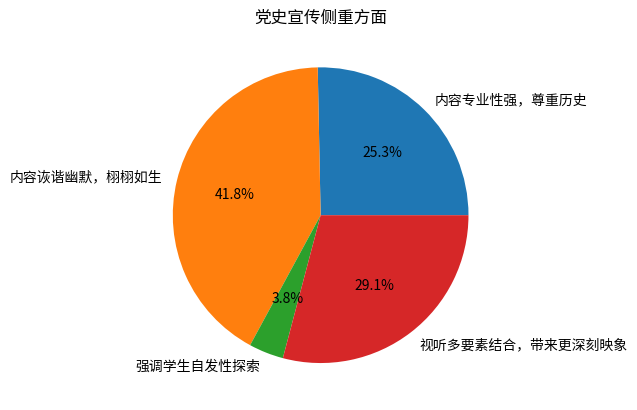
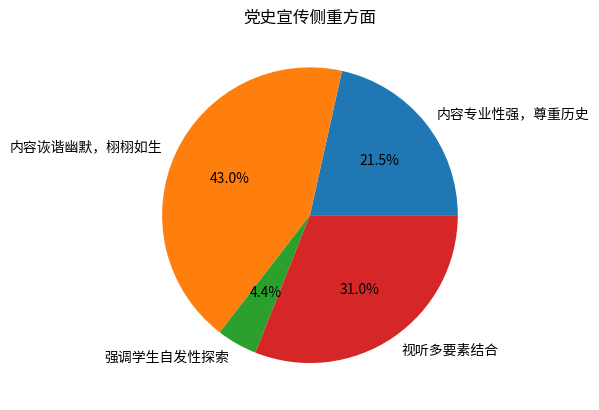
add cyf work

diff --git a/README.md b/README.md
@@ -12,11 +12,83 @@
 
 ## 二、背景调研
 
-### 2.1 当代大学生对基础党史知识的掌握情况
+### 2.1 调查方式
 
-### 2.2 当代大学生对党史的学习兴趣
+为了更好地对当代大学生的党史知识掌握情况进行调查，考虑到评估自身的掌握情况会因为包括主观认知等诸多原因导致信息失真，我们采用了客观题测试和普通调查问卷两种方式相结合的调研方法，在实践中取得了很好的效果。
 
-### 2.3 当代大学生对党史宣传不同途径的态度
+#### 2.1.1 客观题测试设计
+
+为保证客观题的权威性和表述的严谨性，我们认为仅靠自己命题是不合适的；与之相对的，我们选择了以包括历年各地区高考真题、考研真题中党史相关的题目为基础，构建了一个包含235道选择题的题库；每次测试时，我们设计的程序会自动从中随机抽取13道完全不同的测试用题目和3道检查用题目组成16道选择题，在随机排序并随机打乱选项顺序后显示在网页上来进行测试，以此来确保测试用的题目是权威且可靠的。
+
+在题库的建设中，我们发现存在不少题目是高度相似的，因此我们在题库内引入了“相似题目”的概念：当题A和题B均和题C为相似题目，或者我们讨论后认为这两道题目是相似的，那么这两道题目就是“相似题目”；这样的题目出现在同一个问卷中，可能会导致熟悉这部分党史的受试者得到相对于其真实了解情况较高的分数，以及不了解这部分党史的受试者得到相对于其真实了解情况较低的分数，因此在生成问卷时，程序会自动实现13道随机抽取的测试用题目互相不是“相似题目”。借助于我们所处的计算机专业所学得的相关知识，我们可以让生成测试题目的程序以高效率运行的同时，回避两两检查所有题目是否相似这一过于繁重的任务，而只需要检查有限组题目是否相似。此外，考虑到题目难度不尽相同，我们在题库中同时对题目进行了简单的分类，分为偏基础的题目和较为深入的题目，并按照8道偏基础的题目配合5道偏深入的题目来准备13道测试用题目。
+
+为了更进一步体现真实结果，避免受试者通过其他渠道得到问题的答案，我们在后台记录了受试者的是否离开当前页面以及离开的时长：在通常情况下，受试者应当一直在同一个网页完成测试才会离开，因此长期或频繁离开测试页面是不合理的，通常受试者是在尝试通过搜索引擎得到答案。在实践中，我们设置的要求是离开页面小于等于4次，且在看到超过5道题的内容后，离开页面的总时长不超过3分钟，且完成测试的总时长不超过16分钟，测试的结果才会被视为有效。在测试结束后，受试者并不会知道测试用题目的答案，以及他的结果是否被纳入统计中，我们认为这样可以在最大限度保障后续测试真实性的同时，避免测试本身有过强的说教意味和历史考试氛围。
+
+此外，考虑到可能存在随意乱选，只是把所有题目都填上一个选项而不看题目的受试者，我们额外加入了3道检查用题目。3道检查用题目分别和之前的13道测试用题目中的3道为“相似题目”，且重新调整了选项的顺序。若受试者为认真完成，则检查用题目的答案应当和对应的测试用题目答案一致但选项不同，且即使发生错误也应当是相同的错误，反之则说明受试者有可能并没有认真完成。在实践中，考虑到可能存在手误等若干意外因素，我们控制检查用题目一定是和偏基础的题目为“相似题目”，并设置不匹配上限为2，即超过2道（含2道）检查用题目和之前的测试用题目不匹配的测试数据会被判定为无效，进而被舍弃。为抑制测试的说教意味，因为这个原因导致测试数据被舍弃同样不会告知受试者本人。
+
+在之后的分析中，我们只考虑了测试用题目回答的准确性，并没有考虑检查用题目的回答情况，因为后者与前者存在重复。通过以上种种设计，我们得到了较为准确客观的当代大学生对党史的掌握情况。
+
+按照上述方法，我们设计并搭建了符合我们需求的网站，答题界面如下图所示：
+
+![quiz_website](img/quiz1.png)
+![quiz_website](img/quiz2.png)
+
+#### 2.1.2 调查问卷设计
+
+考虑到党史宣传的效果的评估还包括了受宣传者的主观感受，完全依靠客观题的评估是不合适的，因此我们依然保留了传统调查问卷的调查方法。在设计时，为了令调查问卷兼具简洁和深入，我们参考、学习了大量已有的调查问卷的设计，并在此基础上结合自身生活实践设计了自己的调查问卷。在实践中调查问卷被附在客观题测试的后面，在完成客观题之后再在网页上显示。借助于之前客观题测试的结果，我们得以快速找出不可靠的调查问卷结果，从而避免污染数据，维护调查问卷结果的可靠性。由于大部分客观的内容已经被之前的客观题测试完成，因此调查问卷集中于接受党史宣传的方式、宣传的感受以及对未来的期望，以此来从另一个角度评估党史宣传的结果。
+
+### 2.2 调查结果
+
+#### 2.2.1 当代大学生对基础党史知识的掌握情况
+
+我们合计收到了159份有效的客观题测试结果，其中包括67份来自文科学生的测试结果以及92份来自理工科学生的测试结果，整体数据如下图所示：
+
+![test_result_overall](img/data/quiz_overall.png)
+
+可以发现，文科学生的成绩略优于理工科学生，但总体而言则显得良莠不齐，并不能说是很好——这与我们预想的结果不符。进一步深入研究，对于不同难度的题目分别进行统计，发现：
+
+对于偏基础的题目：
+
+![test_result_easy](img/data/quiz_easy.png)
+
+尽管文科学生略优于理工科学生，但二者总体水平都非常好。进一步研究题库中偏基础的题目，发现这部分党史内容集中于教科书上有硬性规定、要考试的部分，绝大多数学生对这一部分内容的掌握都非常优秀，甚至超出了我们的预期，这是值得肯定的。
+
+而对于偏深入的内容：
+
+![test_result_hard](img/data/quiz_hard.png)
+
+文科学生依然略优于理工科学生，但二者结果都不容乐观。这一部分对应的党史内容往往不是考试的硬性要求，更多的依靠学生自发地进行学习，而学习的效果不容乐观。而在本次调查之外的组内同学个人调查中，我们发现，因为考点的变化，导致对同样的党史内容，不同年级学生的掌握水平出现了巨大的差异。
+
+对教科书内容及有硬性要求的党史掌握的很好，但拘泥于教科书内容，缺少对党史学习的兴趣，缺乏主动深入学习党史，这是我们通过客观题测试得出的当代大学生对于党史学习的现状。
+
+#### 2.2.2 当代大学生对党史宣传不同途径的态度
+
+基于一些前期工作，我们认为大学生学习党史的途径主要包括线上线下教学、影视作品、党史主题活动、参观革命纪念地、通过视频及短视频学习这些方面。随后的调查问卷证实了我们的先期工作，并且通过对调查问卷的整理，我们得到了更为详细的数据。
+
+##### 2.2.2.1 线上线下教学的宣传效果
+
+![education](img/data/reasons1.png)
+大部分学生都对通过线上线下教学的党史学习持积极态度，但也有相当一部分同学不认为这种方式非常好。由饼状图不难看出，无论是持积极态度还是持消极态度，其主要原因都是专业性较强，对党史有详细、严谨、完善的表述，这和我们预想的相符。我们认为通过线上线下教学来进行的党史宣传是重要且有效的，但教学时间有限，更多要依靠课堂之外的时间来进行自学。
+
+##### 2.2.2.2 影视作品的宣传效果
+
+![movie](img/data/reasons2.png)
+大部分大学生都认为影视作品的宣传效果很好，并且喜欢的理由主要是因为影视作品的表现形式。应当指出，依然有部分大学生认为的影视作品中人物形象过于“高大全”“伟光正”，并不够接地气；不合适的影视作品可能会导致反效果。
+
+##### 2.2.2.3 党史主题活动的宣传效果
+
+![event](img/data/reasons3.png)
+不少大学生都对这种宣传方式持负面看法，认为这在耗费时间的同时缺乏效果和实际意义，这一方面反映出对党史学习兴趣的缺乏是普遍存在的，另一方面也反映出不少党史主题活动其党史宣传其实并不到位，宣传工作很难说做的很好。
+
+##### 2.2.2.4 革命纪念地的宣传效果
+
+![library](img/data/reasons4.png)
+这一部分大部分大学生依然持负面观点，但值得注意的是，大部分曾参观过的革命纪念地、革命博物馆的大学生都认为这是一种非常好的党史宣传方式，且其持正面评价的原因多集中于能够更深入的了解党史本身而非其他目的，而持负面评价的大学生多为听到名字就避而远之或缺乏行动动机，这引起了我们作进一步调查的兴趣。在综合诸因素考量后，我们选择考察中共代表团梅园新村纪念馆这一重要爱国主义教育基地，以亲身体验的方式来进一步研究其宣传效果。
+
+##### 2.2.2.5 视频及短视频的宣传效果
+
+![video](img/data/reasons5.png)
+大部分大学生都对通过视频及短视频宣传党史并不反感，但绝大多数都只是将其作为处理零星碎片时间的手段，而鲜有为了学习党史而认真看视频的。特别地，我们在调查结果中，看到有人提到视频及短视频平台存在“扛着红旗反红旗”的现象；而在进一步调查中，我们发现确实存在通过将虚假内容嫁接于真实内容至上以博取眼球，乃至刻意弱化、解构红色精神内核，将为共产主义事业而奋斗的崇高精神曲解为简单的儿女情长等一系列极具误导性的错误内容，且屡禁不止。考虑到视频及短视频作者鱼龙混杂，水平参差不齐，且很多人是以盈利的目的来创作内容，因此我们不认为这是一个可靠的党史宣传方法。
 
 ## 三、实践内容
 
@@ -145,10 +217,10 @@
 
 | 您认为党史宣传做到哪些方面更能吸引到您？| 人数 | 占比 |
 | :--- | :--- | :--- |
-| 内容专业性强，尊重历史 | 40 | 25.32% |
-| 内容诙谐幽默，栩栩如生 | 66 | 41.77% |
-| 强调学生自发性探索 | 6 | 3.80% |
-| 视听多要素结合，带来更深刻映象 | 46 | 29.11% |
+| 内容专业性强，尊重历史 | 34 | 21.52% |
+| 内容诙谐幽默，栩栩如生 | 68 | 43.04% |
+| 强调学生自发性探索 | 7 | 4.43% |
+| 视听多要素结合 | 49 | 31.01% |
 | 总计 | 158 | 100.00% |
 
 表 9: 对党史宣传期望的侧重方面
